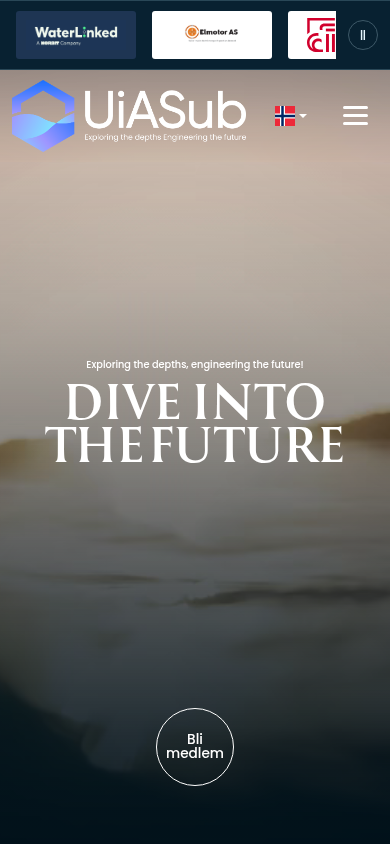
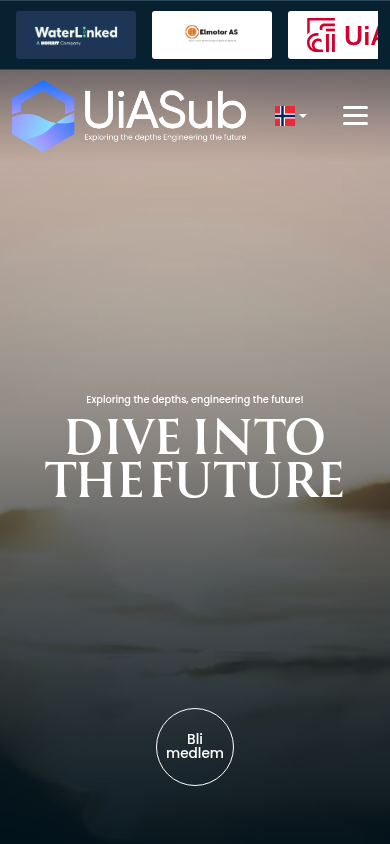
fix(home): let sponsor strip scroll with the page

diff --git a/css/home-sponsors.css b/css/home-sponsors.css
@@ -9,12 +9,10 @@
 .home-sponsors__logo { min-width: 0; }
 .home-sponsors__logo a { display: flex; align-items: center; justify-content: center; height: 88px; padding: 14px 20px; background: #fff; border-radius: 5px; transition: box-shadow .2s; }
 .home-sponsors__logo a:hover { box-shadow: 0 0 0 2px #44b8ff; }
-.home-sponsors__logo a:focus-visible, .home-sponsors button:focus-visible { outline: 3px solid #44b8ff; outline-offset: 4px; }
+.home-sponsors__logo a:focus-visible { outline: 3px solid #44b8ff; outline-offset: 4px; }
 .home-sponsors__logo--dark a { background: #122b3e; }
 .home-sponsors__logo--waterlinked a { background: #1e3553; }
 .home-sponsors__logo img { display: block; width: 100%; height: 100%; object-fit: contain; }
-.home-sponsors button { display: inline-flex; align-items: center; justify-content: center; flex-shrink: 0; width: 36px; height: 36px; border: 1px solid #3e5968; border-radius: 50%; background: transparent; color: #e6f7ff; font: 18px/1 sans-serif; cursor: pointer; }
-.home-sponsors button:hover { background: #17384c; }
 @media (max-width: 700px) {
   .home-sponsors__inner { width: calc(100% - 36px); }
   .home-sponsors__logo a { padding: 10px 12px; height: 70px; }
@@ -23,28 +21,25 @@
   .home-sponsors *, .home-sponsors *::before, .home-sponsors *::after { scroll-behavior: auto !important; transition: none !important; }
 }
 
-.home-sponsors { position: fixed; top: 0; left: 0; right: 0; z-index: 1090; background: #082131; border-top: 1px solid #294757; border-bottom: 1px solid #294757; }
+.home-sponsors { position: relative; z-index: 1090; background: #082131; border-top: 1px solid #294757; border-bottom: 1px solid #294757; }
 .home-sponsors__inner { width: calc(100% - 64px); display: flex; align-items: center; gap: 24px; height: 76px; }
 .home-sponsors__viewport { flex: 1; min-width: 0; overflow-x: auto; scrollbar-width: none; padding: 4px; }
 .home-sponsors__viewport::-webkit-scrollbar { display: none; }
 .home-sponsors__logos { display: flex; width: max-content; gap: 28px; animation: sponsor-drift 45s linear infinite; }
 .home-sponsors__logo { flex: 0 0 135px; width: 135px; }
 .home-sponsors__logo a { height: 48px; padding: 7px 10px; border-radius: 3px; }
-.home-sponsors__logos.is-paused, .home-sponsors:hover .home-sponsors__logos, .home-sponsors:focus-within .home-sponsors__logos { animation-play-state: paused; }
-.home-sponsors button { width: 30px; height: 30px; font-size: 14px; }
+.home-sponsors:hover .home-sponsors__logos, .home-sponsors:focus-within .home-sponsors__logos { animation-play-state: paused; }
 @keyframes sponsor-drift { to { transform: translateX(-50%); } }
 @media (max-width: 700px) {
   .home-sponsors__inner { width: calc(100% - 24px); gap: 12px; height: 68px; }
   .home-sponsors__logo { flex-basis: 120px; width: 120px; }
   .home-sponsors__logos { gap: 16px; }
 }
-/* Keep the sponsor strip above the navigation within the same fixed header. */
-.masthead--sponsors-above { padding-top: calc(78px + clamp(5px, .5vw, 12px)); }
-.masthead--sponsors-above .home-sponsors { position: absolute; top: 0; }
-@media (max-width: 1000px) { .masthead--sponsors-above { padding-top: 88px; } }
-@media (max-width: 700px) { .masthead--sponsors-above { padding-top: 80px; } }
+.hero { height: calc(100svh - var(--home-sponsor-height, 0px)); }
 .home-sponsors:focus-within .home-sponsors__logos { animation: none; }
 
 .home-sponsors__group, .home-sponsors__copy { display: flex; gap: 28px; list-style: none; padding: 0 28px 0 0; margin: 0; }
 .home-sponsors__logos { gap: 0; }
 @media (max-width: 700px) { .home-sponsors__group, .home-sponsors__copy { gap: 16px; padding-right: 16px; } }
+
+@media (prefers-reduced-motion: reduce) { .home-sponsors__logos { animation: none; } }

diff --git a/js/home-sponsors.js b/js/home-sponsors.js
@@ -2,8 +2,6 @@
   const section = document.querySelector('.home-sponsors');
   if (!section) return;
   const list = section.querySelector('.home-sponsors__logos');
-  const english = document.documentElement.lang === 'en';
-  const reducedMotion = window.matchMedia('(prefers-reduced-motion: reduce)');
 
   function logoItem(sponsor) {
     const item = document.createElement('li');
@@ -34,7 +32,6 @@
       list.append(...sponsors.map(logoItem));
       section.hidden = false;
       const viewport = section.querySelector('.home-sponsors__viewport');
-      const toggle = section.querySelector('[data-sponsor-toggle]');
       // A second, inert copy makes the loop seamless without duplicate tab stops.
       const duplicate = list.cloneNode(true);
       duplicate.setAttribute('aria-hidden', 'true');
@@ -45,36 +42,37 @@
       list.className = 'home-sponsors__group';
       track.append(list, duplicate);
       viewport.replaceChildren(track);
-      let paused = reducedMotion.matches;
-      const updateToggle = () => {
-        track.classList.toggle('is-paused', paused);
-        toggle.textContent = paused ? '▶' : 'Ⅱ';
-        toggle.setAttribute('aria-pressed', String(paused));
-        toggle.setAttribute('aria-label', english ? (paused ? 'Play sponsor ticker' : 'Pause sponsor ticker') : (paused ? 'Spill sponsorlinjen' : 'Sett sponsorlinjen på pause'));
-      };
-      toggle.addEventListener('click', () => { paused = !paused; updateToggle(); });
-      // Keyboard users get a stationary list that scrolls each focused logo into view.
+      // Focus stops the animation in CSS and reveals each original sponsor link.
       track.addEventListener('focusin', event => {
-        paused = true;
-        updateToggle();
         event.target.scrollIntoView({ block: 'nearest', inline: 'nearest' });
       });
-      reducedMotion.addEventListener('change', () => { paused = reducedMotion.matches; updateToggle(); });
-      const attachToHeader = mast => {
-        mast.classList.add('masthead--sponsors-above');
-        mast.prepend(section);
+      // The sponsor strip stays in document flow; only the existing navigation is fixed.
+      const alignNavigation = mast => {
+        let ticking = false;
+        const updatePosition = () => {
+          mast.style.top = `${Math.max(0, section.getBoundingClientRect().bottom)}px`;
+          document.documentElement.style.setProperty('--home-sponsor-height', `${section.offsetHeight}px`);
+          ticking = false;
+        };
+        const requestPosition = () => {
+          if (ticking) return;
+          ticking = true;
+          requestAnimationFrame(updatePosition);
+        };
+        window.addEventListener('scroll', requestPosition, { passive: true });
+        new ResizeObserver(requestPosition).observe(section);
+        updatePosition();
       };
       const masthead = document.querySelector('.masthead');
       const headerHost = document.querySelector('#header');
-      if (masthead) attachToHeader(masthead);
+      if (masthead) alignNavigation(masthead);
       else if (headerHost) {
         const observer = new MutationObserver(() => {
           const mast = headerHost.querySelector('.masthead');
-          if (mast) { observer.disconnect(); attachToHeader(mast); }
+          if (mast) { observer.disconnect(); alignNavigation(mast); }
         });
         observer.observe(headerHost, { childList: true, subtree: true });
       }
-      updateToggle();
     })
     .catch(error => console.error('Could not load homepage sponsors:', error));
 })();

diff --git a/index.html b/index.html
@@ -44,16 +44,15 @@
 <body>
   <a href="#main" class="visually-hidden-focusable">Hopp til hovedinnhold</a>
   
-  <!--HEADER-->
-  <div id="header"></div>
-  <script src="js/header.js"></script>
-
   <section class="home-sponsors" aria-label="Sponsorer" hidden>
     <div class="home-sponsors__inner">
       <div class="home-sponsors__viewport"><ul class="home-sponsors__logos" aria-label="Sponsorer"></ul></div>
-      <button type="button" data-sponsor-toggle aria-label="Sett sponsorlinjen på pause" aria-pressed="false">Ⅱ</button>
     </div>
   </section>
+
+  <!--HEADER-->
+  <div id="header"></div>
+  <script src="js/header.js"></script>
 
   <!-- HERO SECTION -->
   <section class="hero">

diff --git a/en/index.html b/en/index.html
@@ -44,16 +44,15 @@
 <body>
   <a href="#main" class="visually-hidden-focusable">Hopp til hovedinnhold</a>
   
-  <!--HEADER-->
-  <div id="header"></div>
-  <script src="/js/header.js"></script>
-
   <section class="home-sponsors" aria-label="Sponsors" hidden>
     <div class="home-sponsors__inner">
       <div class="home-sponsors__viewport"><ul class="home-sponsors__logos" aria-label="Sponsors"></ul></div>
-      <button type="button" data-sponsor-toggle aria-label="Pause sponsor ticker" aria-pressed="false">Ⅱ</button>
     </div>
   </section>
+
+  <!--HEADER-->
+  <div id="header"></div>
+  <script src="/js/header.js"></script>
 
   <!-- HERO SECTION -->
   <section class="hero">
